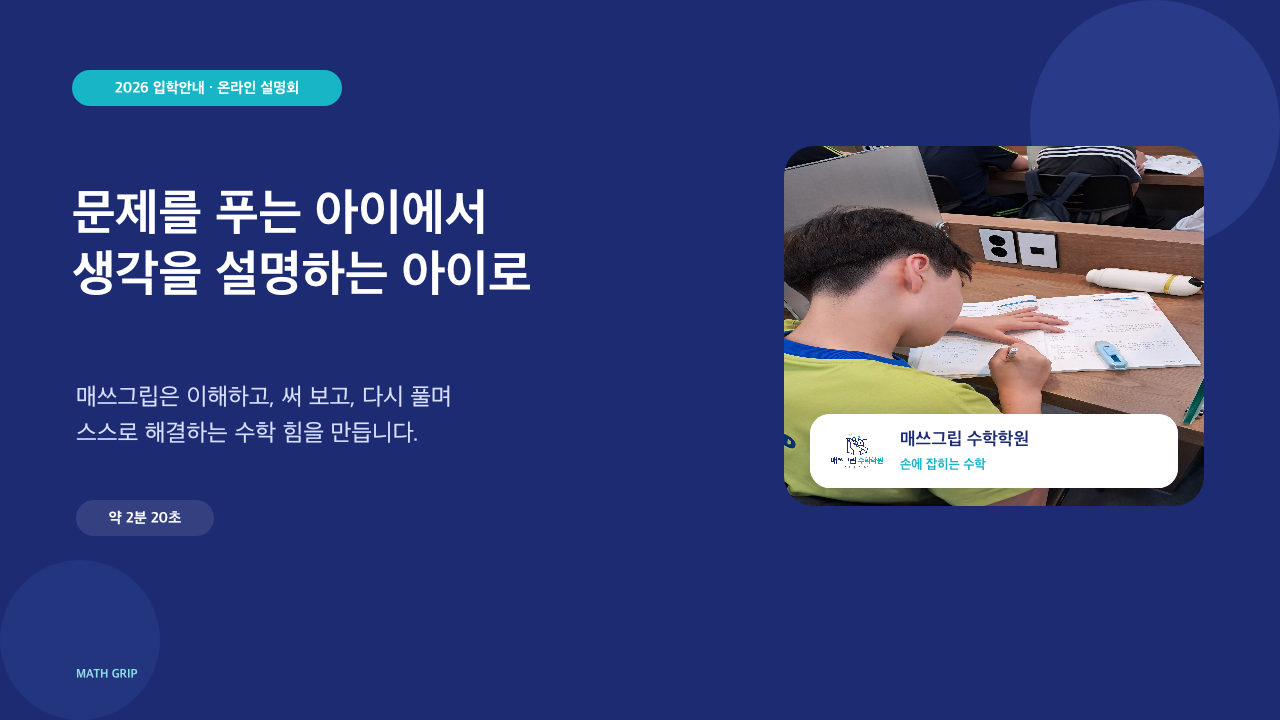
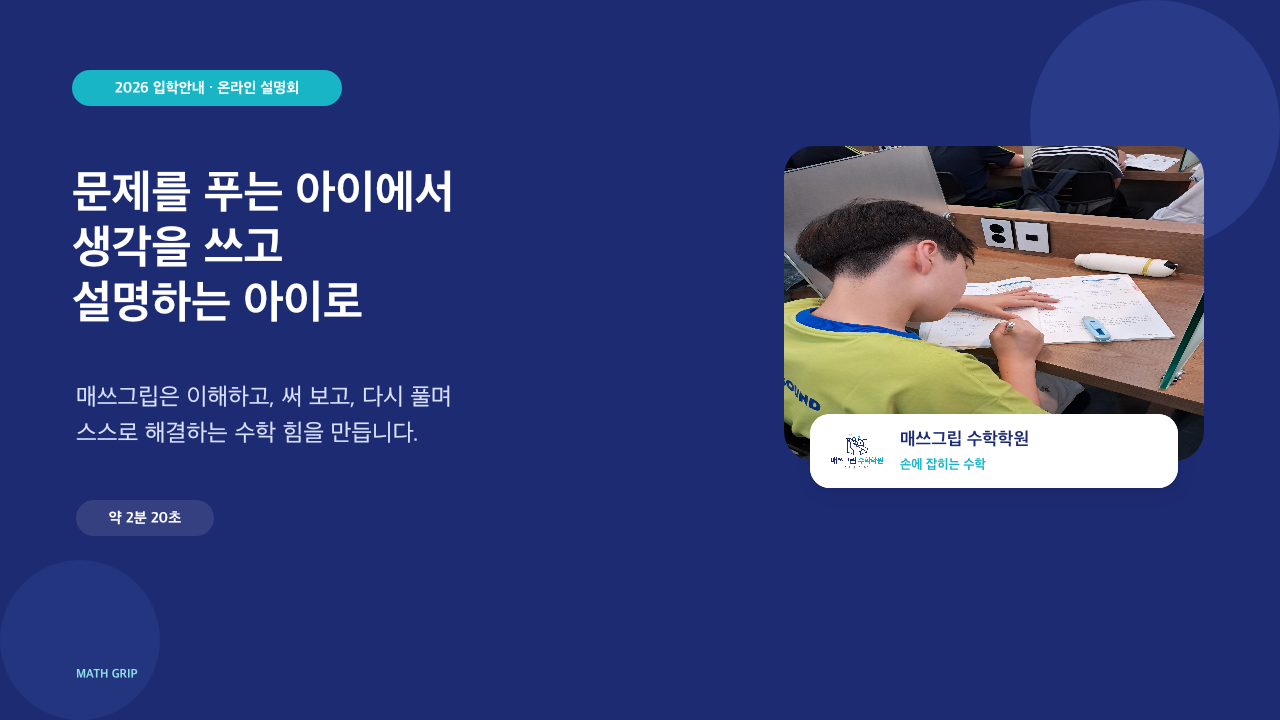
Preserve cover photo ratio and update title

Changed region(s): [[0.5938, 0.1833, 0.9375, 0.7028], [0.0625, 0.2139, 0.4062, 0.4583], [0.625, 0.1833, 0.6875, 0.2444]]

diff --git a/math-grip-guide.html b/math-grip-guide.html
@@ -7,7 +7,7 @@
   <meta name="description" content="약 2분 20초로 이해하는 매쓰그립 수학 프로그램. 화면을 넘기며 Sadaltager 음성 설명을 들어보세요.">
   <link rel="canonical" href="https://www.megrip.com/math-grip-guide.html">
   <meta property="og:type" content="website"><meta property="og:title" content="매쓰그립 온라인 입학설명회">
-  <meta property="og:description" content="문제를 푸는 아이에서 생각을 설명하는 아이로. 9장으로 보는 매쓰그립 수학 프로그램.">
+  <meta property="og:description" content="문제를 푸는 아이에서 생각을 쓰고 설명하는 아이로. 9장으로 보는 매쓰그립 수학 프로그램.">
   <meta property="og:url" content="https://www.megrip.com/math-grip-guide.html"><meta property="og:image" content="https://www.megrip.com/assets/images/math-grip-guide-og.png">
   <meta name="theme-color" content="#1e2a6d">
   <link rel="preconnect" href="https://fonts.googleapis.com"><link rel="preconnect" href="https://fonts.gstatic.com" crossorigin>
